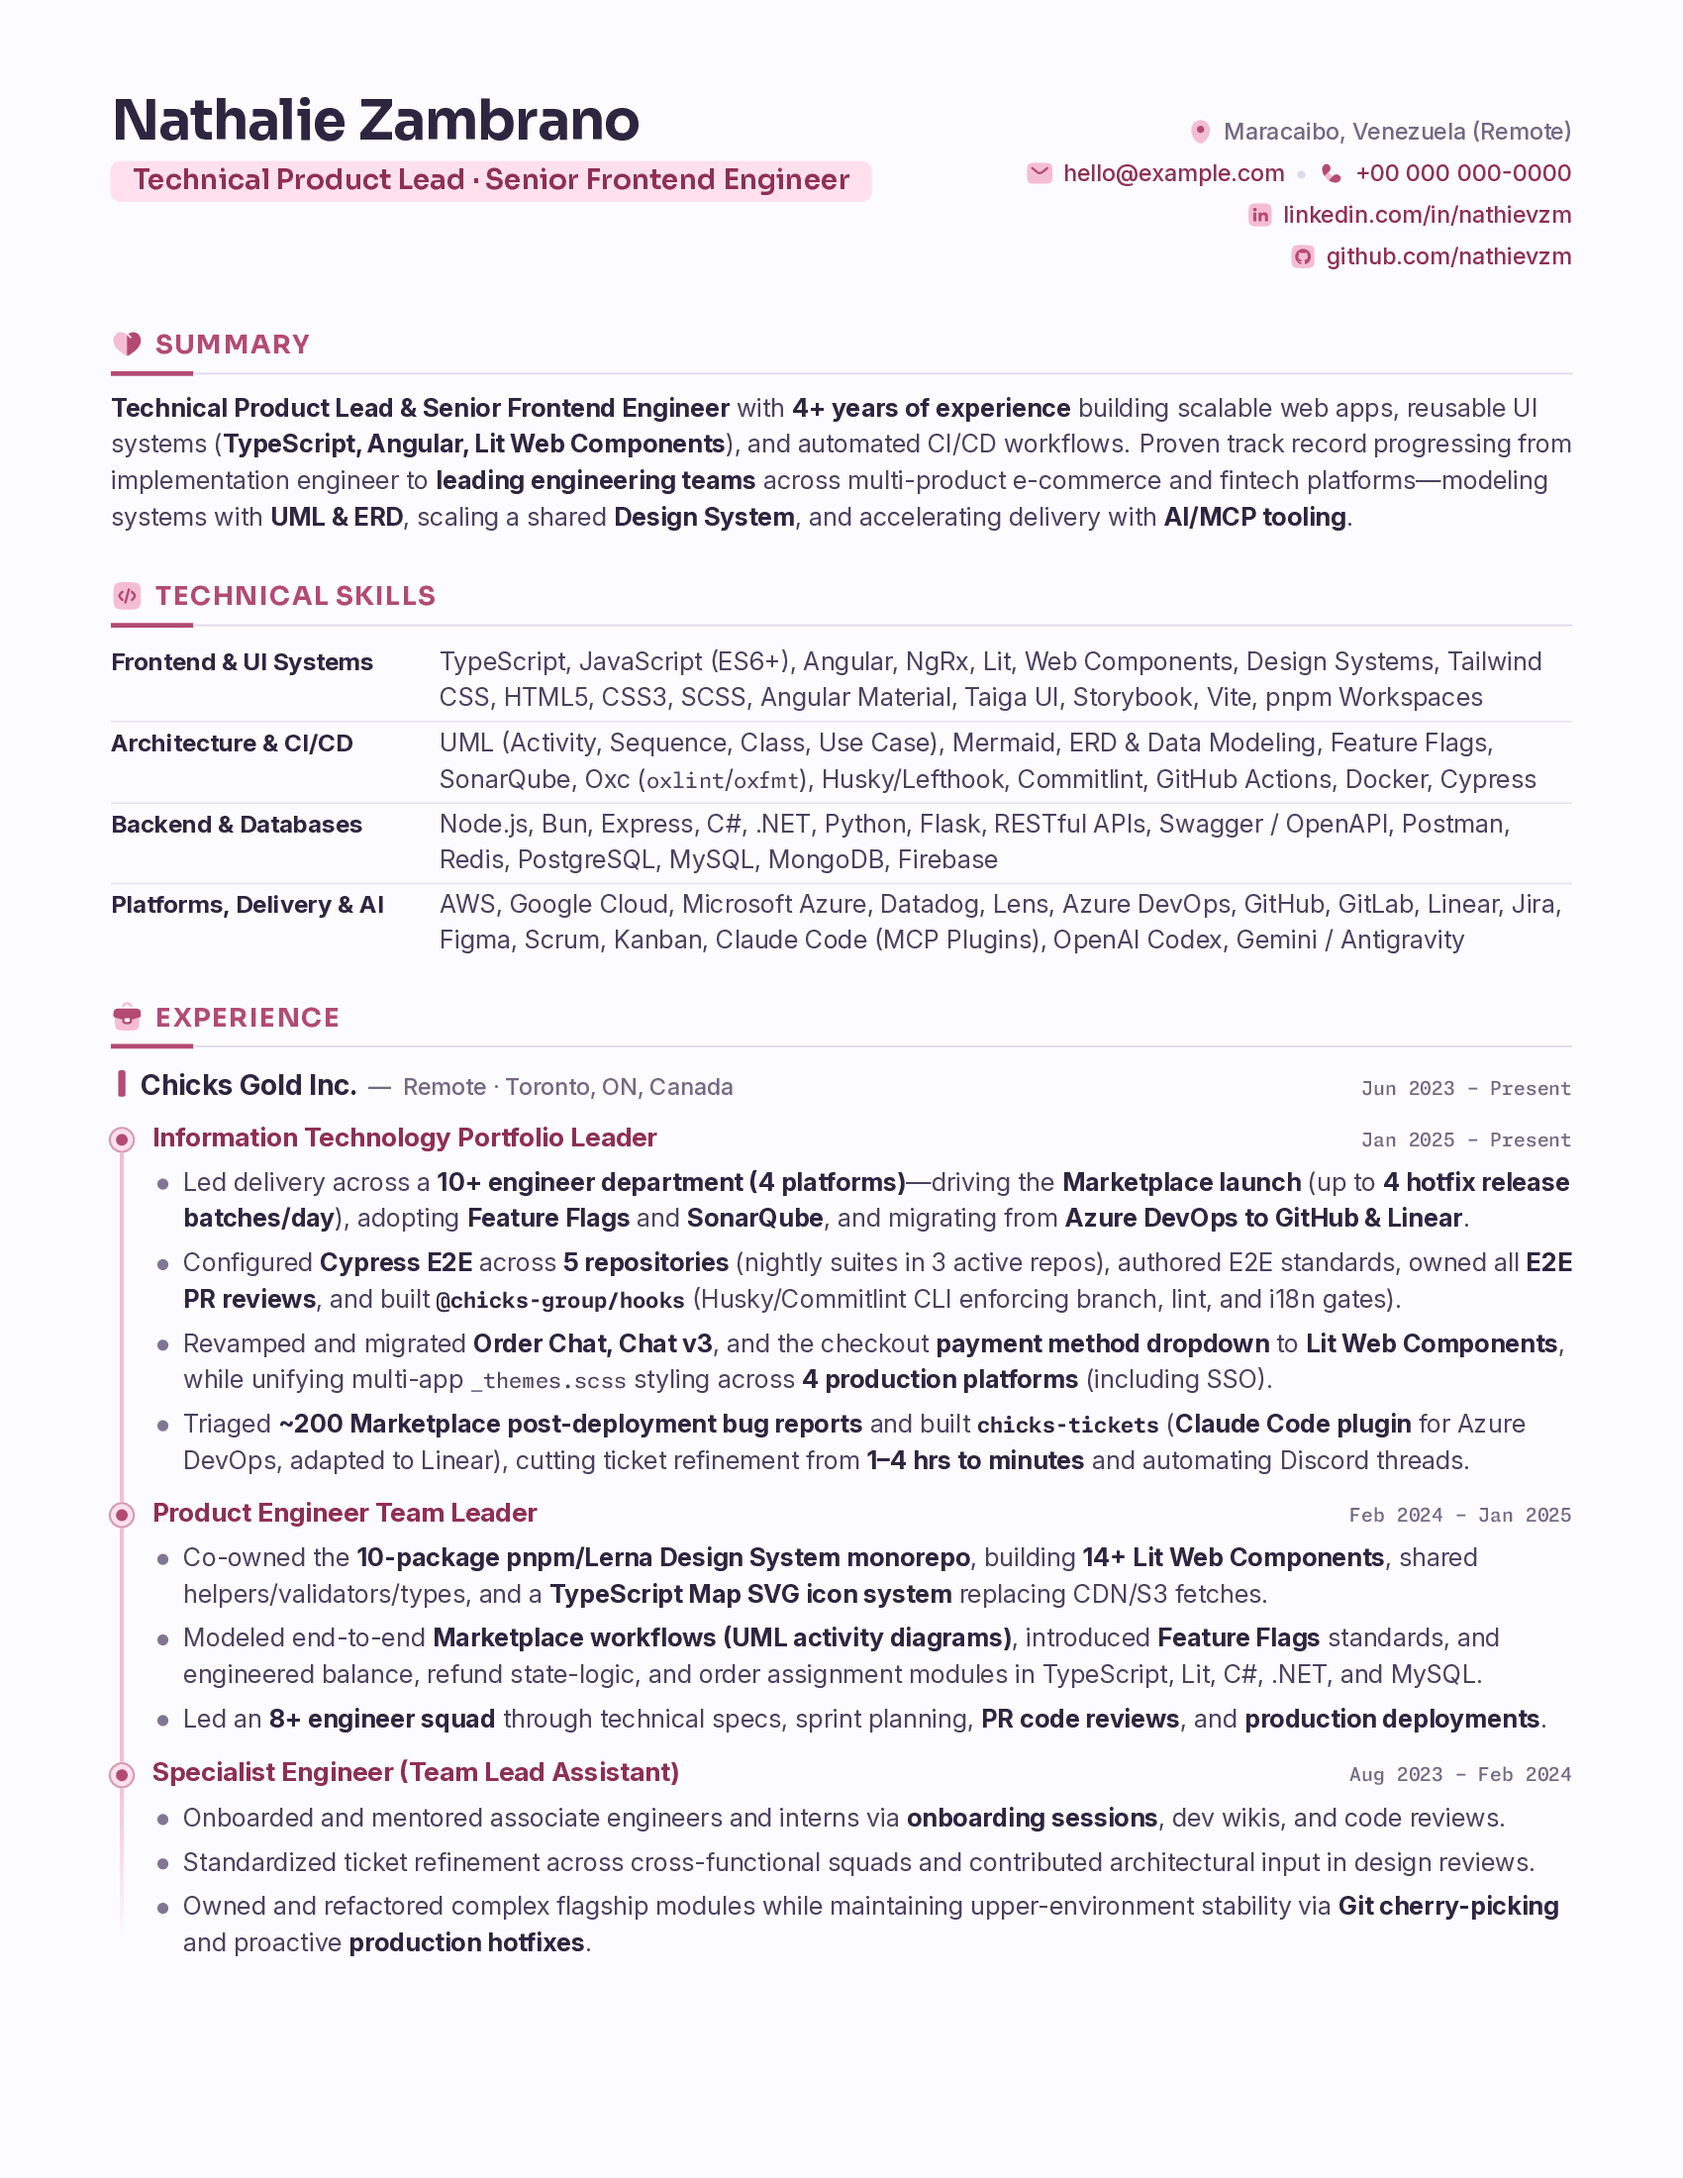
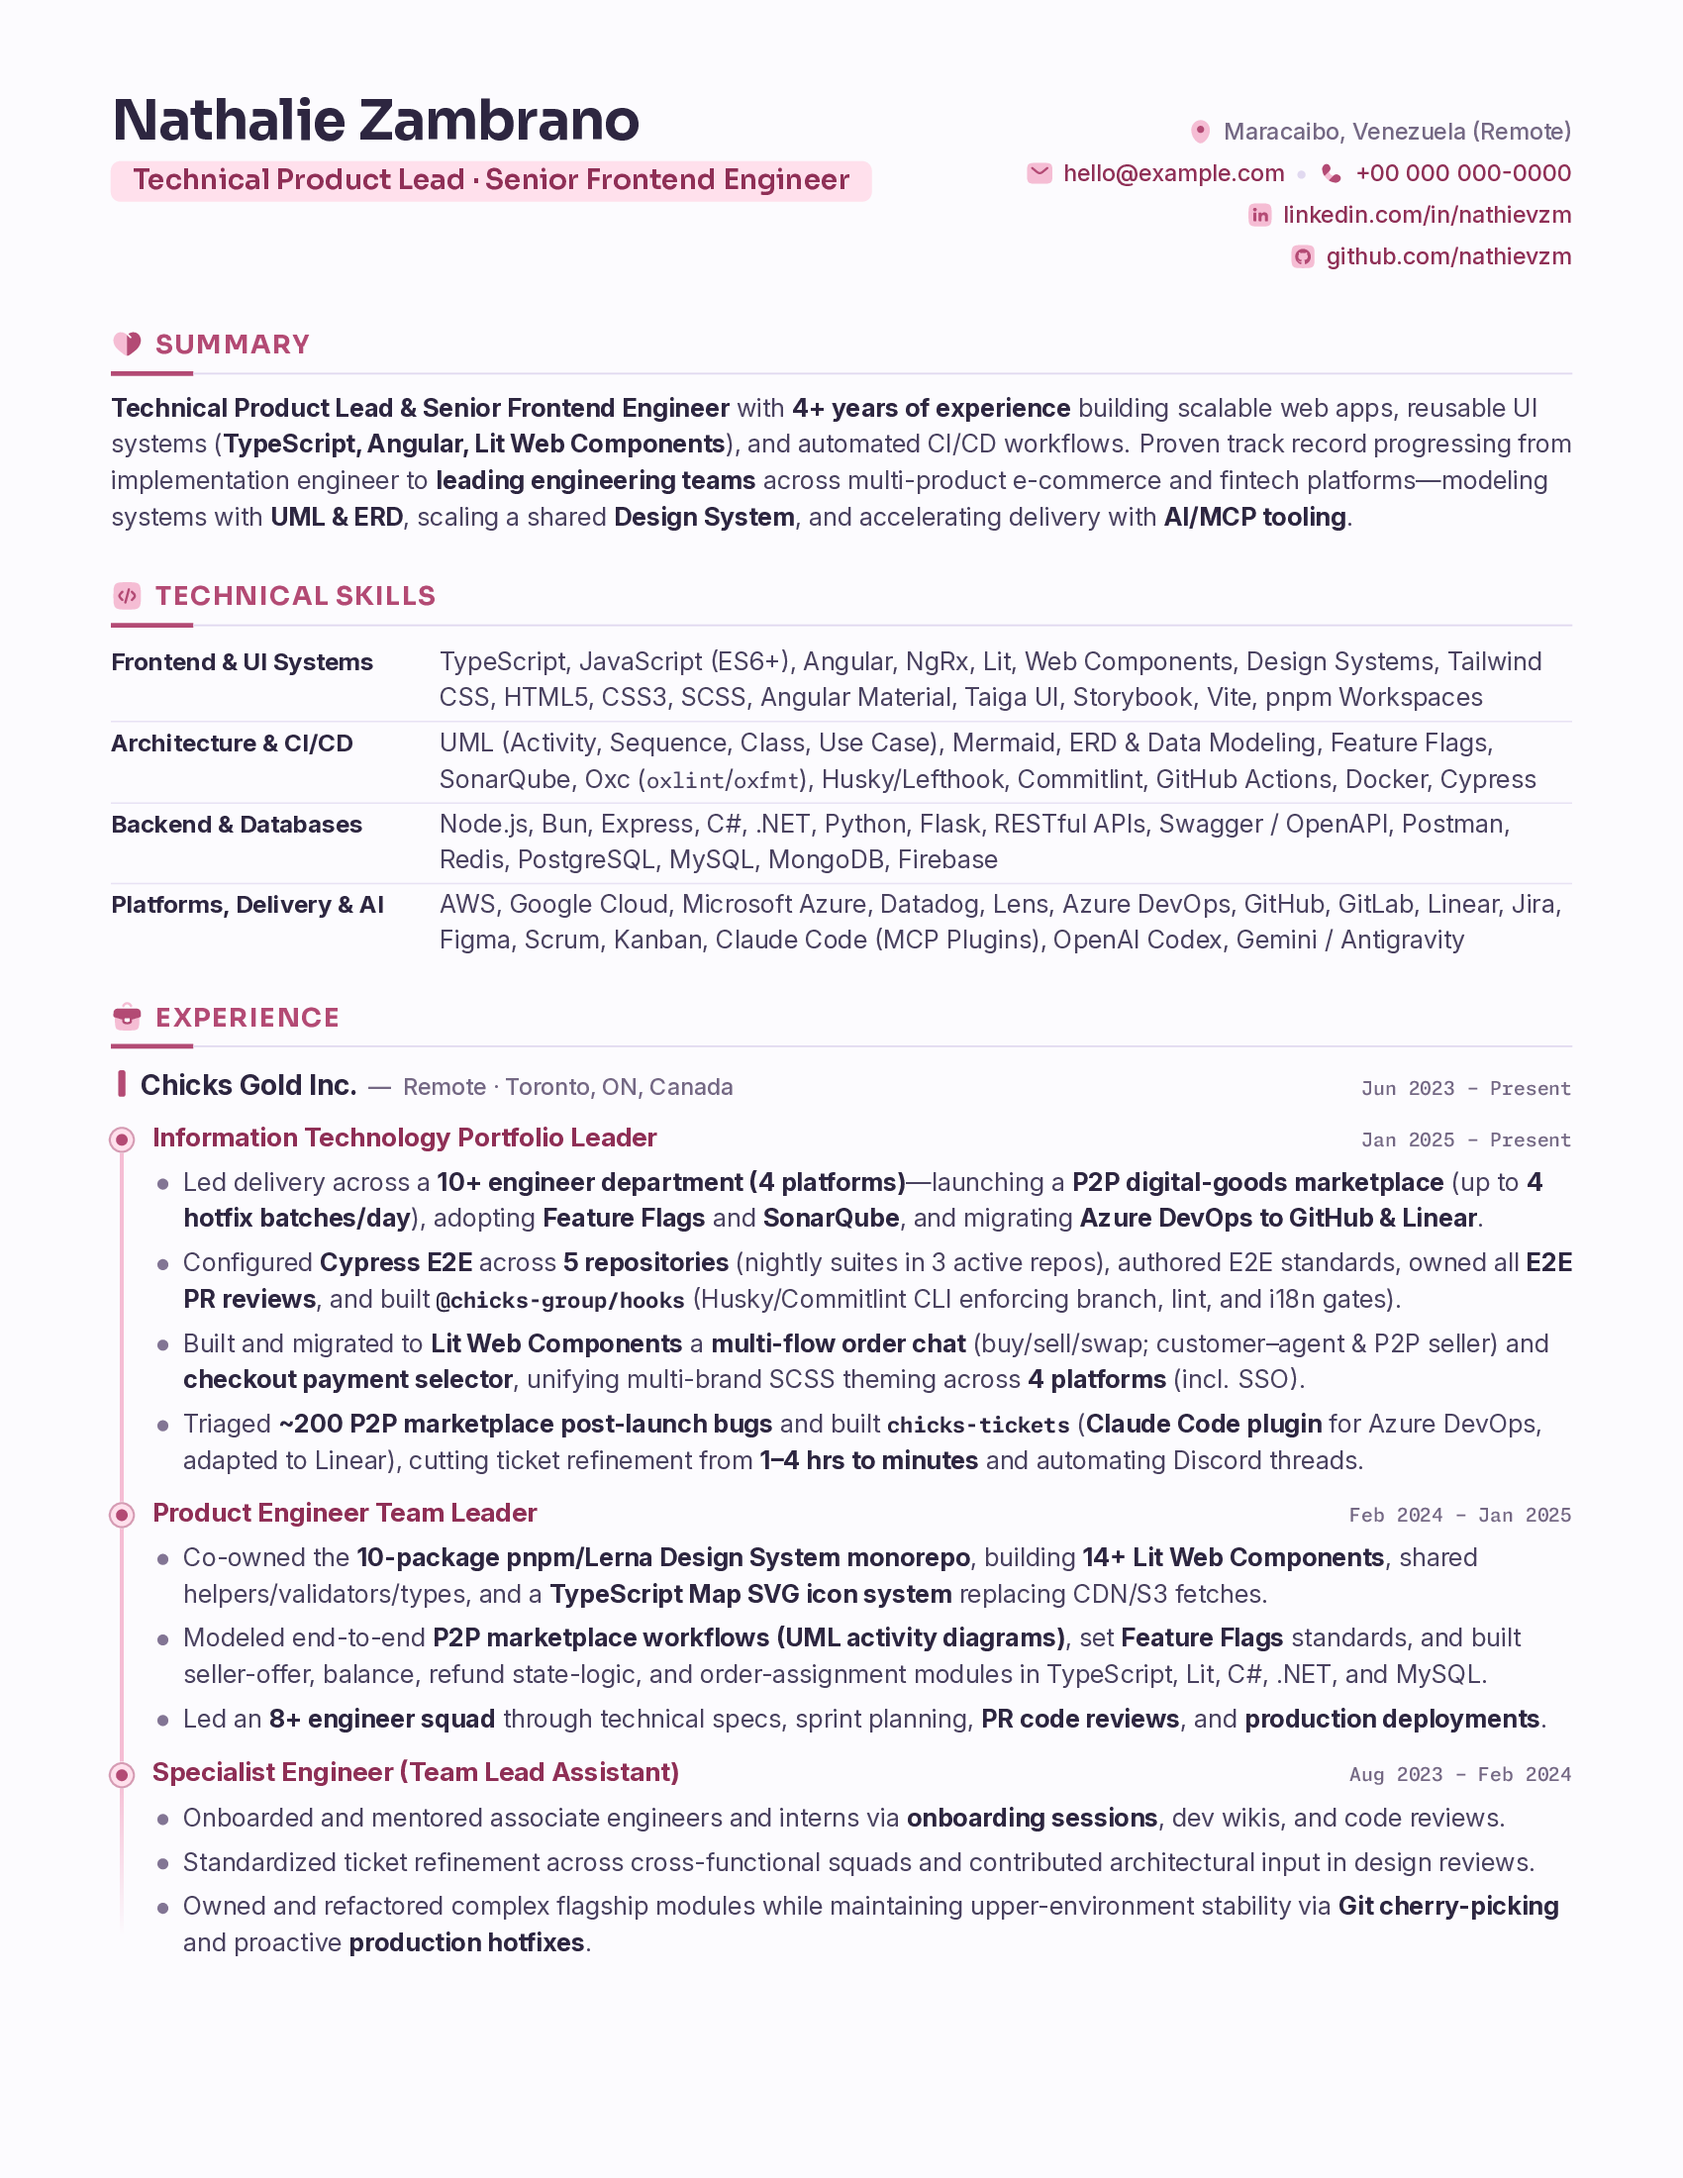
docs(resume): refresh README previews and refine Spanish punctuation

Changed region(s): [[0.0935, 0.5255, 0.9353, 0.68], [0.2494, 0.7418, 0.9041, 0.7727], [0.1247, 0.7418, 0.2182, 0.7727]]

diff --git a/src/sections/es/experience.tex b/src/sections/es/experience.tex
@@ -13,7 +13,7 @@
 
 \begin{TimelineRole}{Information Technology Portfolio Leader}{Ene 2025 – Actualidad}
     \begin{itemize}
-        \item Lideré entregas de \TextStrong{10+ ingenieros (4 plataformas)}—lanzando un \TextStrong{marketplace P2P} de activos digitales (hasta \TextStrong{4 lotes de hotfixes/día}), adoptando \TextStrong{Feature Flags/SonarQube} y migrando \TextStrong{Azure DevOps a GitHub/Linear}.
+        \item Lideré entregas de \TextStrong{10+ ingenieros (4 plataformas)}, lanzando un \TextStrong{marketplace P2P} de activos digitales (hasta \TextStrong{4 lotes de hotfixes/día}), adoptando \TextStrong{Feature Flags/SonarQube} y migrando \TextStrong{Azure DevOps a GitHub/Linear}.
         \item Configuré \TextStrong{Cypress E2E} en \TextStrong{5 repositorios} (suites nocturnas en 3 repos activos), definí estándares E2E, lideré todas las \TextStrong{revisiones de PRs E2E} y creé \texttt{\TextStrong{@chicks-group/hooks}} (CLI con Husky/Commitlint para ramas, lint e i18n).
         \item Creé y migré a \TextStrong{Lit Web Components} un \TextStrong{chat de órdenes multi-flujo} (compra/venta/swap; agentes y sellers P2P) y el \TextStrong{selector de pagos en checkout}, unificando el theming SCSS en \TextStrong{4 plataformas} (con SSO).
         \item Clasifiqué \TextStrong{\textasciitilde{}200 bugs post-lanzamiento del marketplace P2P} y creé \texttt{\TextStrong{chicks-tickets}} (\TextStrong{plugin de Claude Code} para Azure DevOps/Linear), reduciendo el refinamiento de \TextStrong{1--4 h a minutos} y automatizando hilos en Discord.

diff --git a/src/sections/es/summary.tex b/src/sections/es/summary.tex
@@ -7,5 +7,5 @@
 \Section[Heart]{Perfil Profesional}
 
 \SummaryBlock{%
-    \TextStrong{Líder Técnica de Producto y Desarrolladora Frontend Senior} con \TextStrong{4+ años de experiencia} creando apps web escalables, sistemas UI reutilizables (\TextStrong{TypeScript, Angular, Lit Web Components}) y flujos CI/CD. Evolución comprobada desde implementación hasta \TextStrong{liderar equipos de ingeniería} en e-commerce y fintech—modelando con \TextStrong{UML y ERD}, escalando un \TextStrong{Design System} compartido y acelerando entregas con \TextStrong{AI/MCP}.%
+    \TextStrong{Líder Técnica de Producto y Desarrolladora Frontend Senior} con \TextStrong{4+ años de experiencia} creando apps web escalables, sistemas UI reutilizables (\TextStrong{TypeScript, Angular, Lit Web Components}) y flujos CI/CD. Evolución comprobada desde implementación hasta \TextStrong{liderar equipos de ingeniería} en e-commerce y fintech, modelando con \TextStrong{UML y ERD}, escalando un \TextStrong{Design System} compartido y acelerando entregas con \TextStrong{AI/MCP}.%
 }
